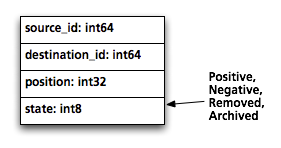
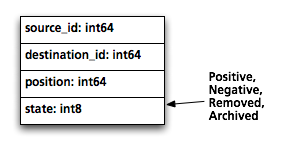
add some info due to comments from greg and rus. correct some errors.

diff --git a/doc/blog.md b/doc/blog.md
@@ -4,11 +4,10 @@
 Twitter's interest graph is the network of relationships between people: who you're following, who's
 following you, who you receive phone notifications from, and so on.
 
-Early on, we decided to handle these relationships a little differently. Instead of requiring a
-siren to confirm her friendship with Odysseus, we let Odysseus follow the siren in a "one-way"
-relationship. There's also no limit to how many people are allowed to follow you, so one user can
-have millions of followers. Unfortunately, these decisions also made it difficult to scale as we
-grew.
+Early on, we decided that instead of requiring each friendship to be requested and confirmed, you
+can build one-way relationships by just following other people. There's also no limit to how many
+people are allowed to follow you, so one person can have millions of followers. Unfortunately, these
+decisions also made it difficult to scale as we grew.
 
 ## A valiant effort
 
@@ -26,32 +25,39 @@ A little over a year ago, we could see that we needed to try something new. Our 
 - Use off-the-shelf MySQL as the storage engine, because we understand its behavior. Give it enough
   memory to keep everything in cache.
 
-- Allow for horizontal partitioning with a lookup table.
+- Allow for horizontal partitioning so we can add more database hardware as the corpus grows.
 
 - Allow write operations to arrive out of order or be processed more than once. (Allow failures to
   result in redundant work rather than lost work.)
 
-FlockDB was the result. We've been using it exclusively for about 6 months now.
+FlockDB was the result. We've been using it exclusively for about 9 months now.
 
 ## A valiant-er effort
 
 FlockDB is a database that stores graph data, but it isn't a database optimized for graph-traversal
 operations. Instead, it's optimized for very large adjacency lists, fast reads and writes, and
-page-able set arithmetic queries. We currently store over 13 billion edges and sustain peak traffic
-of 20k writes/second and 100k reads/second.
+page-able set arithmetic queries.
 
 It stores graphs as sets of edges between nodes identified by 64-bit integers. For a social graph,
 these node IDs will be user IDs, but in a graph storing "favorite" tweets, the destination may be a
-tweet ID. Each edge is also marked with a 32-bit position, used for sorting. (Twitter puts a
+tweet ID. Each edge is also marked with a 64-bit position, used for sorting. (Twitter puts a
 timestamp here for the "following" graph, so that your follower list is displayed latest-first.)
 
 ![schema](schema.png)
 
-Instead of deleting rows from MySQL, edges that are "deleted" are just marked as being in the
-deleted state, which has the effect of moving the primary key. Similarly, users who are suspended
-can have their edges put into an archived state, allowing them to be restored later. We keep only a
-compound primary key and a secondary index for each row, and answer all queries from a single index.
-This kind of schema optimization allows MySQL to shine and gives us predictable performance.
+When an edge is "deleted", the row isn't actually deleted from MySQL; it's just marked as being in
+the deleted state, which has the effect of moving the primary key (a compound key of the source ID,
+state, and position). Similarly, users who are suspended can have their edges put into an archived
+state, allowing them to be restored later. We keep only a compound primary key and a secondary index
+for each row, and answer all queries from a single index. This kind of schema optimization allows
+MySQL to shine and gives us predictable performance.
+
+A complex query like "What's the intersection of people I follow and people who are following
+President Obama?" can be answered quickly be decomposing it into single-user queries ("Who is
+following President Obama?"). Data is partitioned by node, so these queries can each be answered by
+a single partition, using an indexed range query. Similarly, paging through long result sets is done
+by using the position field as a cursor, so any page of results for a query uses the same index, and
+is equally fast.
 
 Write operations are [idempotent](http://en.wikipedia.org/wiki/Idempotence) and
 [commutative](http://en.wikipedia.org/wiki/Commutative), based on the time they enter the system. We
@@ -81,6 +87,9 @@ source ID) and once in the "backward" direction (using the destination ID). That
 "Who follows me?" is just as efficient as "Who do I follow?", and the answer to each query lives
 entirely on a single partition.
 
+The end result is a cluster of commodity servers that we can expand as needed. Over the winter, we
+added 50% database capacity without anyone noticing. We currently store over 13 billion edges and
+sustain peak traffic of 20k writes/second and 100k reads/second.
 
 ## Lessons learned
 
